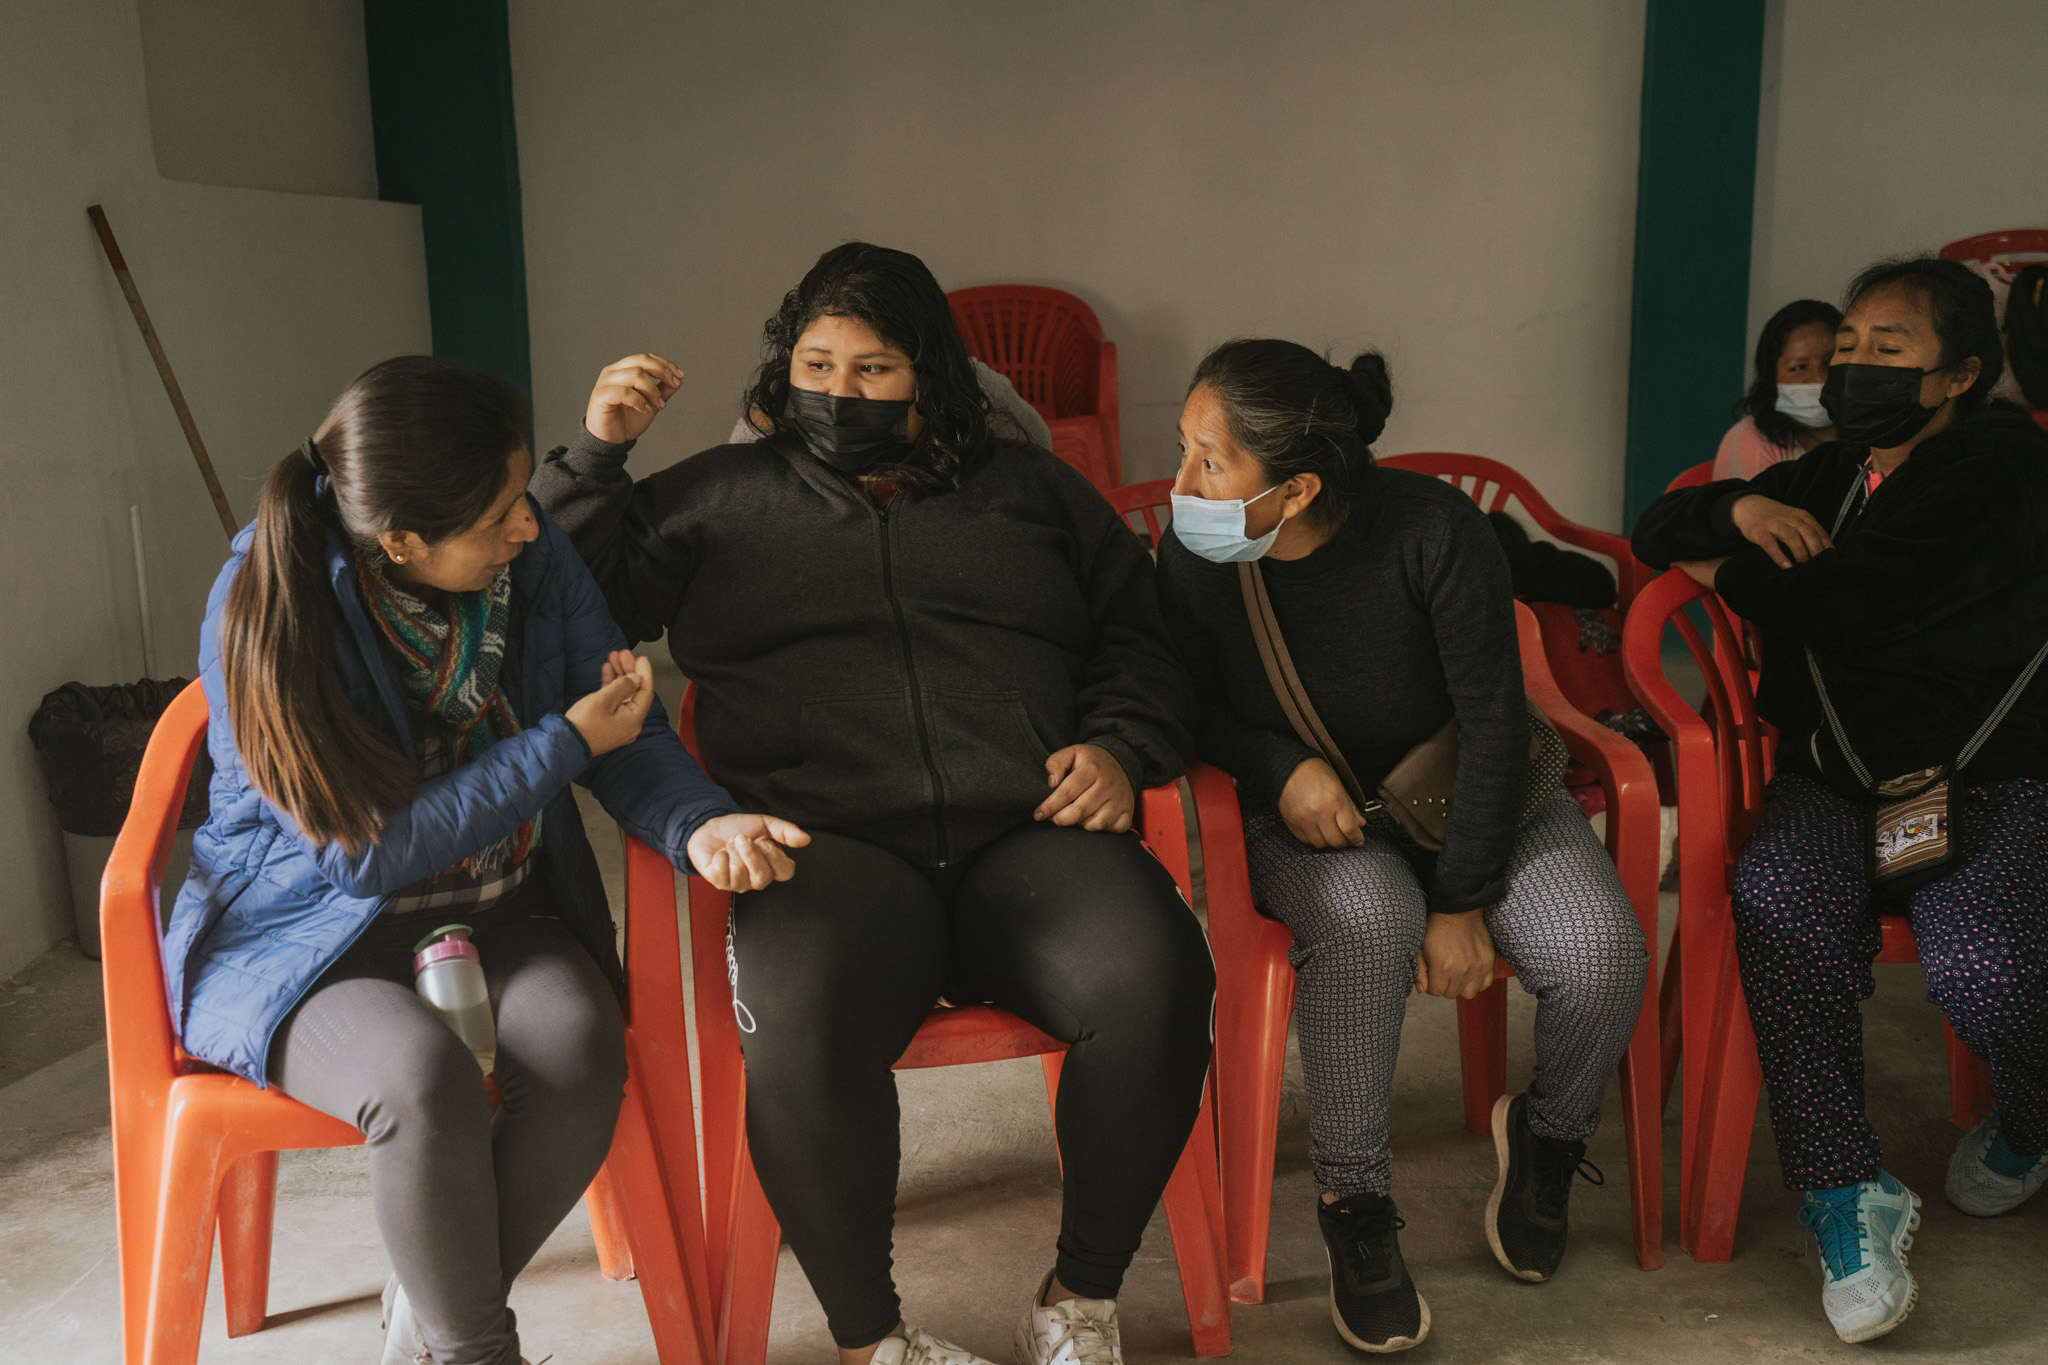
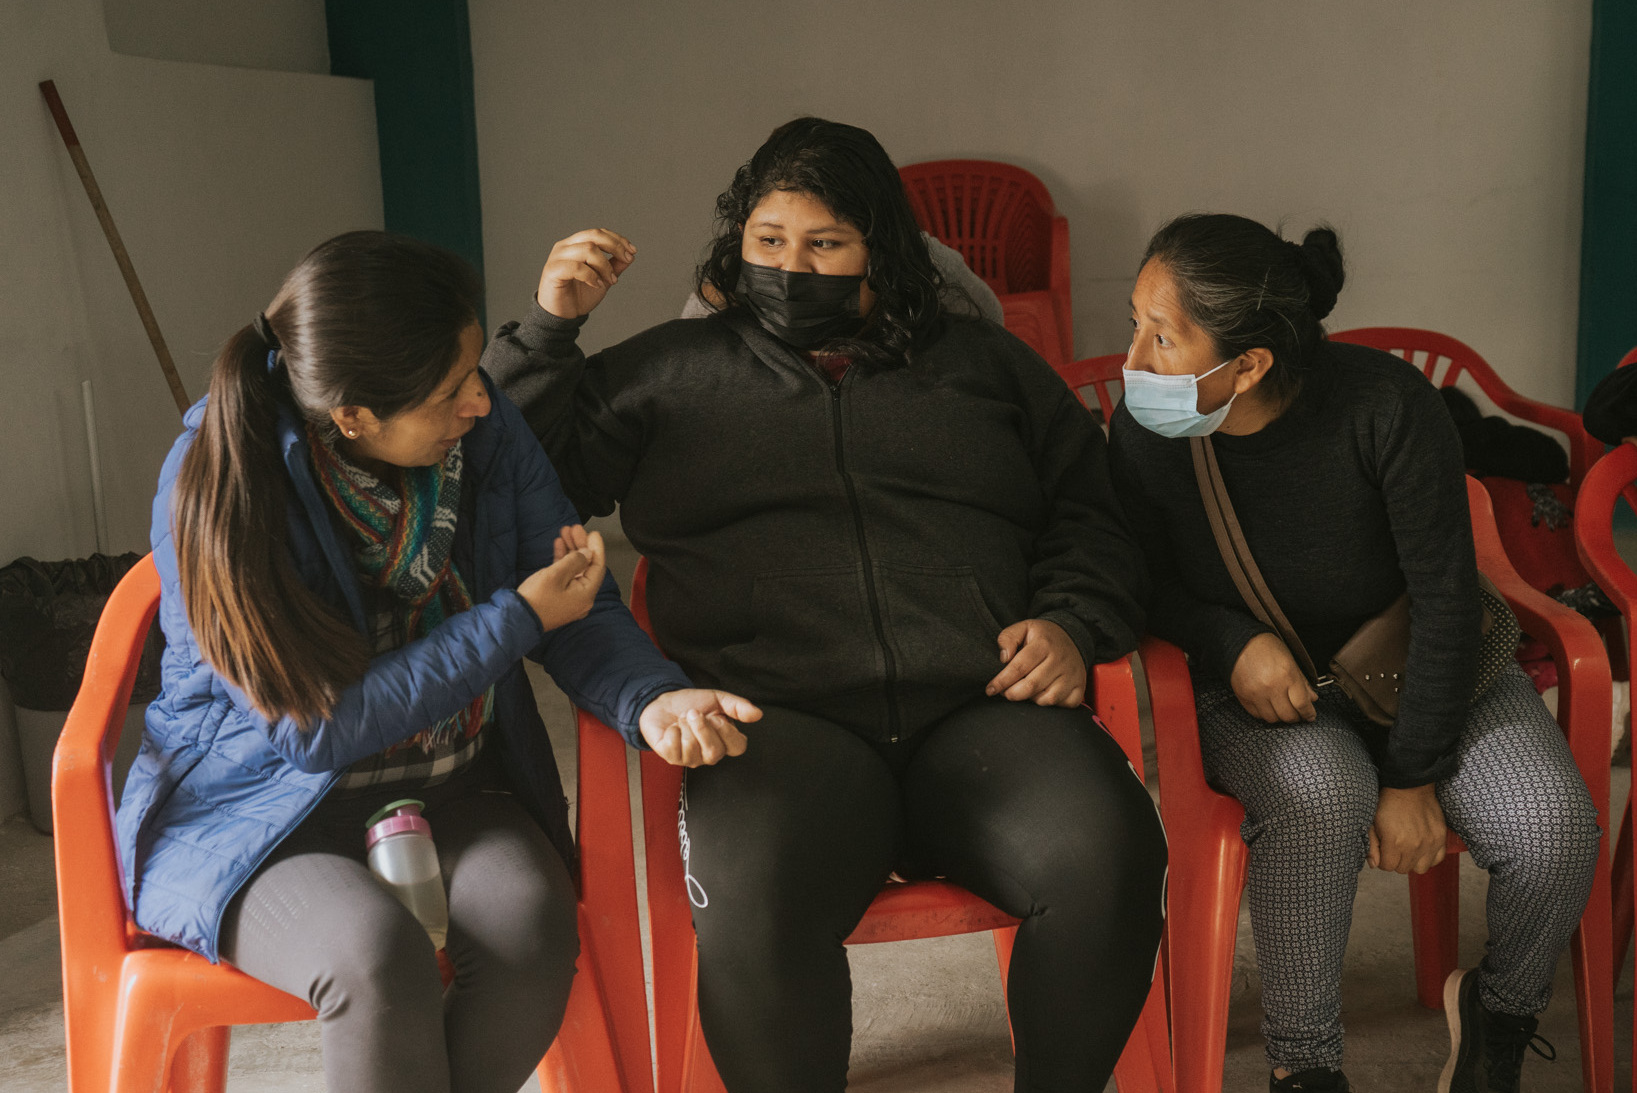
modificar fotos

diff --git a/pages/nosotras.html b/pages/nosotras.html
@@ -160,18 +160,27 @@
                 <div class="single-valor-wrapper">
                     <div class="single-valor">
                         <div class="title">
+                            <div class="title-img">
+                                <img src="../assets/empatia.png" alt="" />
+                            </div>
                             <h4>Empatía</h4>
                         </div>
                         <p>El responder o gestionar nuestras decisiones pensando en como los demás podrían sentirse ante nuestras acciones, nos ayuda a tener un espacio social más amigable.</p>
                     </div>
                     <div class="single-valor">
                         <div class="title">
+                            <div class="title-img">
+                                <img src="../assets/integridad.png" alt="" />
+                            </div>
                             <h4>Integridad</h4>
                         </div>
                         <p>Es importante hacer lo correcto, incluso cuando nadie te ve, por convicción a tus valores.</p>
                     </div>
                     <div class="single-valor">
                         <div class="title">
+                            <div class="title-img">
+                                <img src="../assets/compromiso.png" alt="" />
+                            </div>
                             <h4>Compromiso</h4>
                         </div>
                         <p>Estar comprometidas con nuestras promesas, uniendo fuerzas para  generar un cambio en la sociedad.</p>
@@ -220,6 +229,11 @@
             </aside>
         </div>
         <!-- end of sidebar -->
+        <!-- floating button -->
+        <div class="float-button">
+            <a href="./pages/donaciones.html"><img src="../assets/volunteer_activism_FILL0_wght400_GRAD0_opsz48.png" alt="boton dona">Quiero donar</a>
+        </div>
+        <!-- end of floating button -->
         <!-- footer -->
         <footer>
             <div class="row primary">

diff --git a/styles/style.css b/styles/style.css
@@ -811,7 +811,7 @@ a.feed-powered-by-es.feed-powered-by-es-slider-new {
 }
 .main-queHacemos .frontpage {
   background-image: url(../assets/que-hacemos-frontpage.jpg);
-  background-position: center;
+  background-position: 0% 0%;
   background-size: cover;
   height: 40vh;
   width: 100%;
@@ -1050,7 +1050,7 @@ a.feed-powered-by-es.feed-powered-by-es-slider-new {
 }
 .main-voluntariado .frontpage {
   background-image: url(../assets/voluntariado-frontpage.jpg);
-  background-position: 100% 85%;
+  background-position: 50% 40%;
   background-size: cover;
   height: 40vh;
   width: 100%;
@@ -1233,7 +1233,7 @@ a.feed-powered-by-es.feed-powered-by-es-slider-new {
     height: 444px;
     display: block;
     background-size: cover;
-    background-position-y: 50%;
+    background-position-y: 30%;
   }
   .main-voluntariado .modal .modal-content {
     width: 40%;
@@ -1661,6 +1661,9 @@ footer .copyright p {
 }
 .main-nosotras .main-valores .single-valor .title {
   padding-bottom: 1rem;
+}
+.main-nosotras .main-valores .single-valor .title .title-img {
+  width: 4rem;
 }
 .main-nosotras .main-valores .single-valor .title h4 {
   color: var(--red);

diff --git a/index.html b/index.html
@@ -167,7 +167,7 @@
             </div>
             <div class="instagram-feed">
                 <div class="embedsocial-hashtag" data-ref="9a9e9a8c281151f419e325eeae9022578d39d70e">
-                    <a class="feed-powered-by-es feed-powered-by-es-feed-new" href="https://embedsocial.com/social-media-aggregator/" target="_blank" title="Widget by EmbedSocial"> Widget by EmbedSocial<span>→</span> 
+                    <a class="feed-powered-by-es feed-powered-by-es-feed-new" href="https://embedsocial.com/social-media-aggregator/" target="_blank" title="Widget by EmbedSocial"><span></span> 
                     </a> 
                 </div> 
             </div>

diff --git a/styles/_voluntariado.scss b/styles/_voluntariado.scss
@@ -1,7 +1,7 @@
 .main-voluntariado {
     .frontpage {
         background-image: url(../assets/voluntariado-frontpage.jpg);
-        background-position: 100% 85%;
+        background-position: 50% 40%;
         background-size: cover;
         height: 40vh;
         width: 100%;
@@ -229,7 +229,7 @@
             height: 444px;
             display: block;
             background-size: cover;
-            background-position-y: 50%;
+            background-position-y: 30%;
         }
 
         .modal {

diff --git a/pages/contacto.html b/pages/contacto.html
@@ -149,6 +149,11 @@
             </aside>
         </div>
         <!-- end of sidebar -->
+        <!-- floating button -->
+        <div class="float-button">
+            <a href="./pages/donaciones.html"><img src="../assets/volunteer_activism_FILL0_wght400_GRAD0_opsz48.png" alt="boton dona">Quiero donar</a>
+        </div>
+        <!-- end of floating button -->
         <!-- footer -->
         <footer>
             <div class="row primary">

diff --git a/pages/donaciones.html b/pages/donaciones.html
@@ -212,6 +212,11 @@
             </aside>
         </div>
         <!-- end of sidebar -->
+        <!-- floating button -->
+        <div class="float-button">
+            <a href="./pages/donaciones.html"><img src="../assets/volunteer_activism_FILL0_wght400_GRAD0_opsz48.png" alt="boton dona">Quiero donar</a>
+        </div>
+        <!-- end of floating button -->
         <!-- footer -->
         <footer>
             <div class="row primary">

diff --git a/pages/empresas.html b/pages/empresas.html
@@ -221,6 +221,11 @@
             </aside>
         </div>
         <!-- end of sidebar -->
+        <!-- floating button -->
+        <div class="float-button">
+            <a href="./pages/donaciones.html"><img src="../assets/volunteer_activism_FILL0_wght400_GRAD0_opsz48.png" alt="boton dona">Quiero donar</a>
+        </div>
+        <!-- end of floating button -->
         <!-- footer -->
         <footer>
             <div class="row primary">

diff --git a/pages/novedades.html b/pages/novedades.html
@@ -135,6 +135,11 @@
             </aside>
         </div>
         <!-- end of sidebar -->
+        <!-- floating button -->
+        <div class="float-button">
+            <a href="./pages/donaciones.html"><img src="../assets/volunteer_activism_FILL0_wght400_GRAD0_opsz48.png" alt="boton dona">Quiero donar</a>
+        </div>
+        <!-- end of floating button -->
         <!-- footer -->
         <footer>
             <div class="row primary">

diff --git a/pages/queHacemos.html b/pages/queHacemos.html
@@ -195,6 +195,11 @@
             </aside>
         </div>
         <!-- end of sidebar -->
+        <!-- floating button -->
+        <div class="float-button">
+            <a href="./pages/donaciones.html"><img src="../assets/volunteer_activism_FILL0_wght400_GRAD0_opsz48.png" alt="boton dona">Quiero donar</a>
+        </div>
+        <!-- end of floating button -->
         <!-- footer -->
         <footer>
             <div class="row primary">

diff --git a/pages/singleNovedad.html b/pages/singleNovedad.html
@@ -150,6 +150,11 @@
             </aside>
         </div>
         <!-- end of sidebar -->
+        <!-- floating button -->
+        <div class="float-button">
+            <a href="./pages/donaciones.html"><img src="../assets/volunteer_activism_FILL0_wght400_GRAD0_opsz48.png" alt="boton dona">Quiero donar</a>
+        </div>
+        <!-- end of floating button -->
         <!-- footer -->
         <footer>
             <div class="row primary">

diff --git a/pages/voluntariado.html b/pages/voluntariado.html
@@ -219,6 +219,11 @@
             </aside>
         </div>
         <!-- end of sidebar -->
+        <!-- floating button -->
+        <div class="float-button">
+            <a href="./pages/donaciones.html"><img src="../assets/volunteer_activism_FILL0_wght400_GRAD0_opsz48.png" alt="boton dona">Quiero donar</a>
+        </div>
+        <!-- end of floating button -->
         <!-- footer -->
         <footer>
             <div class="row primary">

diff --git a/styles/_queHacemos.scss b/styles/_queHacemos.scss
@@ -1,7 +1,7 @@
 .main-queHacemos {
     .frontpage {
         background-image: url(../assets/que-hacemos-frontpage.jpg);
-        background-position: center;
+        background-position: 0% 0%;
         background-size: cover;
         height: 40vh;
         width: 100%;
